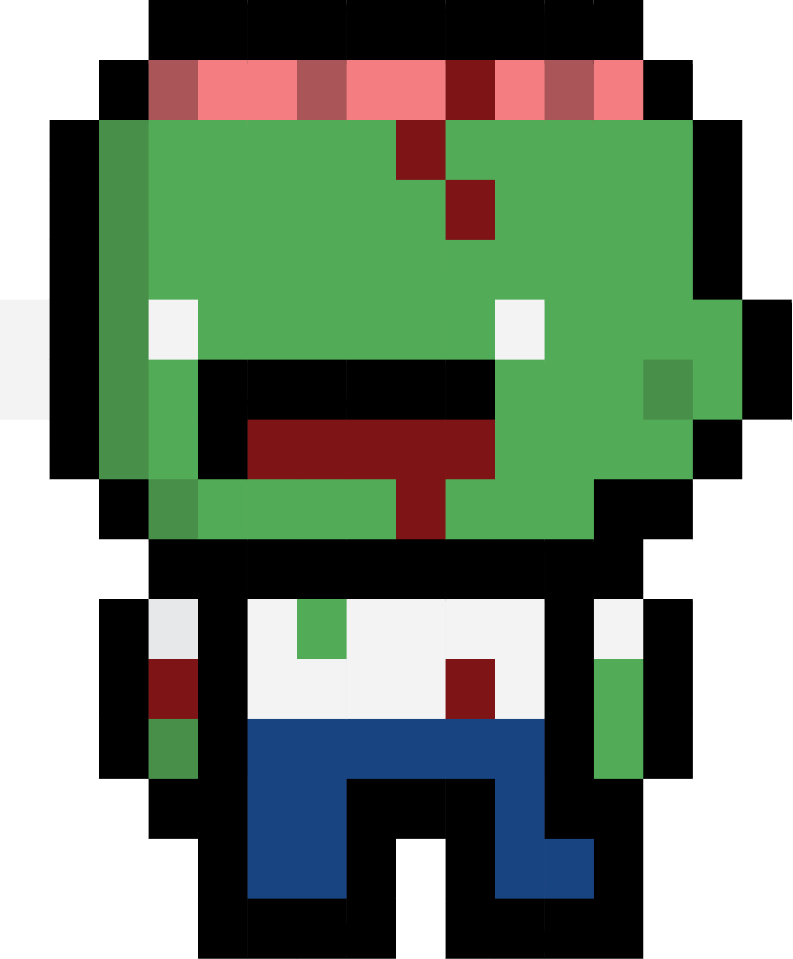
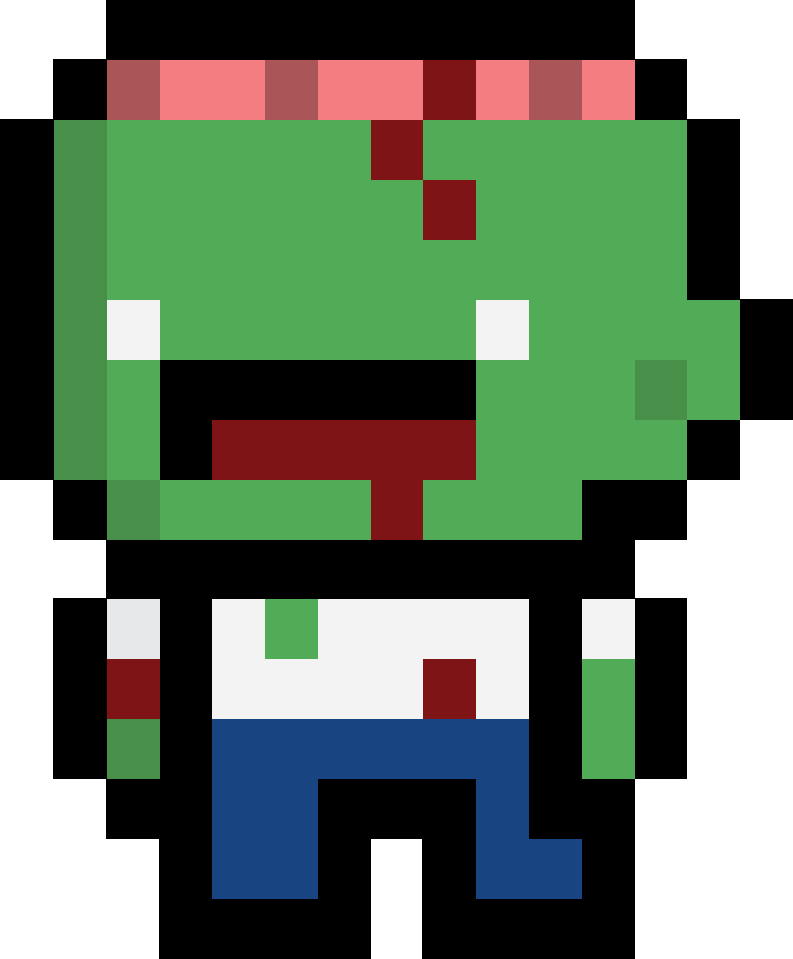
zombie

diff --git a/src/main/java/org/game/graphic/Graphical.java b/src/main/java/org/game/graphic/Graphical.java
@@ -13,7 +13,7 @@ public class Graphical extends JPanel implements Runnable{
 
     // screen setting
     final int originalTileSize = 16; //16x16 tile
-    final int scale = 4; // set scale all to 4
+    public final int scale = 4; // set scale all to 4
     public final int tileSize = originalTileSize*scale; // 48
 
     private final int maxScreencol = 14;

diff --git a/src/main/java/org/game/Zom/Zombie.java b/src/main/java/org/game/Zom/Zombie.java
@@ -66,7 +66,7 @@ public class Zombie {
     }
         public void render(Graphics2D g2) {
             BufferedImage image = zom_1;
-            g2.drawImage(image,540,100,graphical.tileSize,graphical.tileSize,null);
+            g2.drawImage(image,540,100,15*graphical.scale,21*graphical.scale,null);
     }
 
 

diff --git a/src/main/java/org/game/MeowPack/Shooter.java b/src/main/java/org/game/MeowPack/Shooter.java
@@ -41,7 +41,7 @@ public class Shooter extends Meow {
         BufferedImage image = meow_1;
 
 
-        g2.drawImage(image,140,100,graphical.tileSize,graphical.tileSize,null);
+        g2.drawImage(image,140,110,13*graphical.scale,14*graphical.scale,null);
 
 
 
